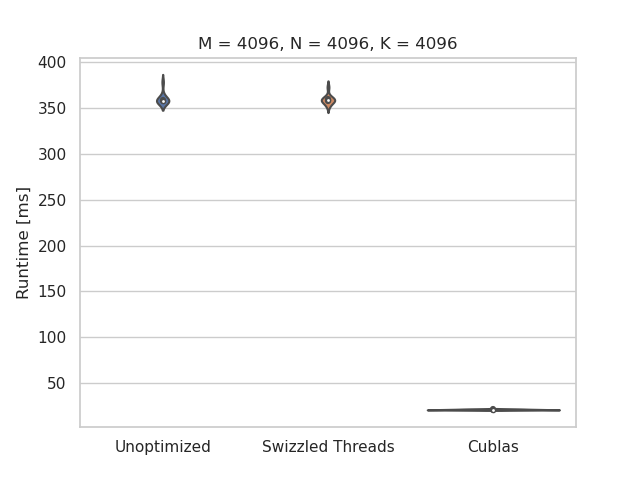
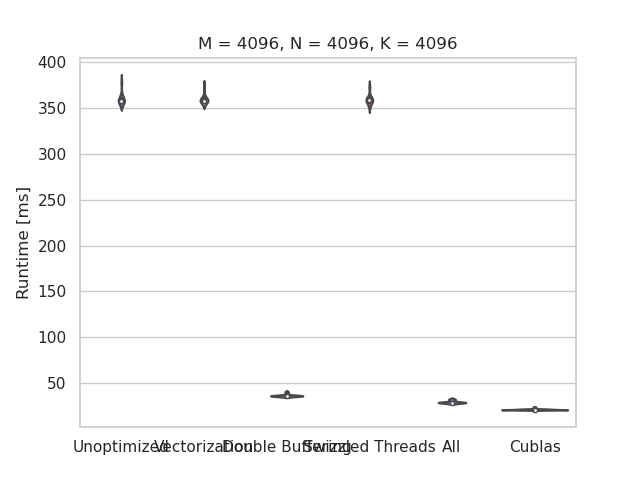
prepare tests

diff --git a/Milestone_2/performance_tests.py b/Milestone_2/performance_tests.py
@@ -14,13 +14,13 @@ if args.test == 1:
     helpers.print_info("=" * 20, False)
     helpers.print_info("===== (1024 x 1024) x (1024 x 1024)", False)
     helpers.print_info("=" * 20, False)
-    # subprocess.run(["nvprof", "--print-gpu-trace", "--csv", "--log-file", "1024_1024_unoptimized.csv", "python", "./sdfg_api.py", "-M=1024", "-N=1024", "-K=1024", "--repetitions=" + str(args.grepetitions)])
-    subprocess.run(["nvprof", "--print-gpu-trace", "--csv", "--log-file", "1024_1024_vectorization.csv", "python", "./sdfg_api.py", "-M=1024", "-N=1024", "-K=1024", "--vectorization", "--repetitions=" + str(args.repetitions)])
-    subprocess.run(["nvprof", "--print-gpu-trace", "--csv", "--log-file", "1024_1024_double_buffering.csv", "python", "./sdfg_api.py", "-M=1024", "-N=1024", "-K=1024", "--double-buffering", "--repetitions=" + str(args.repetitions)])
-    # subprocess.run(["nvprof", "--print-gpu-trace", "--csv", "--log-file", "1024_1024_swizzled_threads.csv", "python", "./sdfg_api.py", "-M=1024", "-N=1024", "-K=1024", "--swizzle-threads", "--repetitions=" + str(args.repetitions)])
+    subprocess.run(["nvprof", "--print-gpu-trace", "--csv", "--log-file", "1024_1024_unoptimized.csv", "python", "./sdfg_api.py", "-M=1024", "-N=1024", "-K=1024", "--repetitions=" + str(args.grepetitions)])
+    # subprocess.run(["nvprof", "--print-gpu-trace", "--csv", "--log-file", "1024_1024_vectorization.csv", "python", "./sdfg_api.py", "-M=1024", "-N=1024", "-K=1024", "--vectorization", "--repetitions=" + str(args.repetitions)])
+    # subprocess.run(["nvprof", "--print-gpu-trace", "--csv", "--log-file", "1024_1024_double_buffering.csv", "python", "./sdfg_api.py", "-M=1024", "-N=1024", "-K=1024", "--double-buffering", "--repetitions=" + str(args.repetitions)])
+    subprocess.run(["nvprof", "--print-gpu-trace", "--csv", "--log-file", "1024_1024_swizzled_threads.csv", "python", "./sdfg_api.py", "-M=1024", "-N=1024", "-K=1024", "--swizzle-threads", "--repetitions=" + str(args.repetitions)])
     # subprocess.run(["nvprof", "--print-gpu-trace", "--csv", "--log-file", "1024_1024_swizzled_thread_blocks.csv", "python", "./sdfg_api.py", "-M=1024", "-N=1024", "-K=1024", "--swizzle-thread-blocks", "--repetitions=" + str(args.repetitions)])
-    subprocess.run(["nvprof", "--print-gpu-trace", "--csv", "--log-file", "1024_1024_vectorization_double_buffering_swizzled_threads.csv", "python", "./sdfg_api.py", "-M=1024", "-N=1024", "-K=1024", "--double-buffering", "--vectorization", "--swizzle-threads", "--repetitions=" + str(args.repetitions)])
-    # subprocess.run(["nvprof", "--print-gpu-trace", "--csv", "--log-file", "1024_1024_cublas.csv", "python", "./cublas.py", "-M=1024", "-N=1024", "-K=1024", "--repetitions=" + str(args.repetitions)])
+    # subprocess.run(["nvprof", "--print-gpu-trace", "--csv", "--log-file", "1024_1024_vectorization_double_buffering_swizzled_threads.csv", "python", "./sdfg_api.py", "-M=1024", "-N=1024", "-K=1024", "--double-buffering", "--vectorization", "--swizzle-threads", "--repetitions=" + str(args.repetitions)])
+    subprocess.run(["nvprof", "--print-gpu-trace", "--csv", "--log-file", "1024_1024_cublas.csv", "python", "./cublas.py", "-M=1024", "-N=1024", "-K=1024", "--repetitions=" + str(args.repetitions)])
 
 ### (4096 x 4096) x (4096 x 4096)
 if args.test == 2:
@@ -28,10 +28,10 @@ if args.test == 2:
     helpers.print_info("===== (4096 x 4096) x (4096 x 4096)", False)
     helpers.print_info("=" * 20, False)
     # subprocess.run(["nvprof", "--print-gpu-trace", "--csv", "--log-file", "4096_4096_unoptimized.csv", "python", "./sdfg_api.py", "-M=4096", "-N=4096", "-K=4096", "--repetitions=" + str(args.repetitions)])
-    subprocess.run(["nvprof", "--print-gpu-trace", "--csv", "--log-file", "4096_4096_vectorization.csv", "python", "./sdfg_api.py", "-M=4096", "-N=4096", "-K=4096", "--vectorization", "--repetitions=" + str(args.repetitions)])
-    subprocess.run(["nvprof", "--print-gpu-trace", "--csv", "--log-file", "4096_4096_double_buffering.csv", "python", "./sdfg_api.py", "-M=4096", "-N=4096", "-K=4096", "--double-buffering", "--repetitions=" + str(args.repetitions)])
+    # subprocess.run(["nvprof", "--print-gpu-trace", "--csv", "--log-file", "4096_4096_vectorization.csv", "python", "./sdfg_api.py", "-M=4096", "-N=4096", "-K=4096", "--vectorization", "--repetitions=" + str(args.repetitions)])
+    # subprocess.run(["nvprof", "--print-gpu-trace", "--csv", "--log-file", "4096_4096_double_buffering.csv", "python", "./sdfg_api.py", "-M=4096", "-N=4096", "-K=4096", "--double-buffering", "--repetitions=" + str(args.repetitions)])
     # subprocess.run(["nvprof", "--print-gpu-trace", "--csv", "--log-file", "4096_4096_swizzled_threads.csv", "python", "./sdfg_api.py", "-M=4096", "-N=4096", "-K=4096", "--swizzle-threads", "--repetitions=" + str(args.repetitions)])
-    subprocess.run(["nvprof", "--print-gpu-trace", "--csv", "--log-file", "4096_4096_vectorization_double_buffering_swizzled_threads.csv", "python", "./sdfg_api.py", "-M=4096", "-N=4096", "-K=4096", "--double-buffering", "--vectorization", "--swizzle-threads", "--repetitions=" + str(args.repetitions)])
+    # subprocess.run(["nvprof", "--print-gpu-trace", "--csv", "--log-file", "4096_4096_vectorization_double_buffering_swizzled_threads.csv", "python", "./sdfg_api.py", "-M=4096", "-N=4096", "-K=4096", "--double-buffering", "--vectorization", "--swizzle-threads", "--repetitions=" + str(args.repetitions)])
     # subprocess.run(["nvprof", "--print-gpu-trace", "--csv", "--log-file", "4096_4096_cublas.csv", "python", "./cublas.py", "-M=4096", "-N=4096", "-K=4096", "--repetitions=" + str(args.repetitions)])
 
 ### (1024 x 8192) x (8192 x 1024)

diff --git a/Milestone_2/plotting.py b/Milestone_2/plotting.py
@@ -20,13 +20,16 @@ def read_nvprof_data(path_to_csv):
 ### (1024 x 1024) x (1024 x 1024)
 if args.test == 1:
     unoptimized_df = read_nvprof_data("./1024_1024_unoptimized.csv")
+    vectorization_df = read_nvprof_data("./1024_1024_vectorization.csv")
+    double_buffering_df = read_nvprof_data("./1024_1024_double_buffering.csv")
     swizzled_threads_df = read_nvprof_data("./1024_1024_swizzled_threads.csv")
+    v_db_st_df = read_nvprof_data("./1024_1024_vectorization_double_buffering_swizzled_threads.csv")
     cublas_df = read_nvprof_data("./1024_1024_cublas.csv")
-    combined_df = pd.concat([unoptimized_df, swizzled_threads_df, cublas_df], axis=1)
-    combined_df.columns = ["unoptimized", "swizzled_threads", "cublas"]
+    combined_df = pd.concat([unoptimized_df, vectorization_df, double_buffering_df, swizzled_threads_df, v_db_st_df, cublas_df], axis=1)
+    combined_df.columns = ["unoptimized", "vectorization", "double_buffering", "swizzled_threads", "v_db_st", "cublas"]
 
     plot_1 = sns.violinplot(data=combined_df)
-    plot_1.set(xticklabels=["Unoptimized", "Swizzled Threads", "Cublas"], ylabel="Runtime [ms]", title="M = 1024, N = 1024, K = 1024") # , xlabel=""
+    plot_1.set(xticklabels=["Unoptimized", "Vectorization", "Double Buffering", "Swizzled Threads", "All", "Cublas"], ylabel="Runtime [ms]", title="M = 1024, N = 1024, K = 1024") # , xlabel=""
     # plt.show()
     fig = plot_1.get_figure()
     fig.savefig("./1024_1024_comparison.png")
@@ -34,13 +37,16 @@ if args.test == 1:
 ### (4096 x 4096) x (4096 x 4096)
 if args.test == 2:
     unoptimized_df = read_nvprof_data("./4096_4096_unoptimized.csv")
+    vectorization_df = read_nvprof_data("./4096_4096_vectorization.csv")
+    double_buffering_df = read_nvprof_data("./4096_4096_double_buffering.csv")
     swizzled_threads_df = read_nvprof_data("./4096_4096_swizzled_threads.csv")
+    v_db_st_df = read_nvprof_data("./4096_4096_vectorization_double_buffering_swizzled_threads.csv")
     cublas_df = read_nvprof_data("./4096_4096_cublas.csv")
-    combined_df = pd.concat([unoptimized_df, swizzled_threads_df, cublas_df], axis=1)
-    combined_df.columns = ["unoptimized", "swizzled_threads", "cublas"]
+    combined_df = pd.concat([unoptimized_df, vectorization_df, double_buffering_df, swizzled_threads_df, v_db_st_df, cublas_df], axis=1)
+    combined_df.columns = ["unoptimized", "vectorization", "double_buffering", "swizzled_threads", "v_db_st", "cublas"]
 
     plot_2 = sns.violinplot(data=combined_df)
-    plot_2.set(xticklabels=["Unoptimized", "Swizzled Threads", "Cublas"], ylabel="Runtime [ms]", title="M = 4096, N = 4096, K = 4096") # , xlabel=""
+    plot_2.set(xticklabels=["Unoptimized", "Vectorization", "Double Buffering", "Swizzled Threads", "All", "Cublas"], ylabel="Runtime [ms]", title="M = 4096, N = 4096, K = 4096") # , xlabel=""
     # plt.show()
     fig = plot_2.get_figure()
     fig.savefig("./4096_4096_comparison.png")
